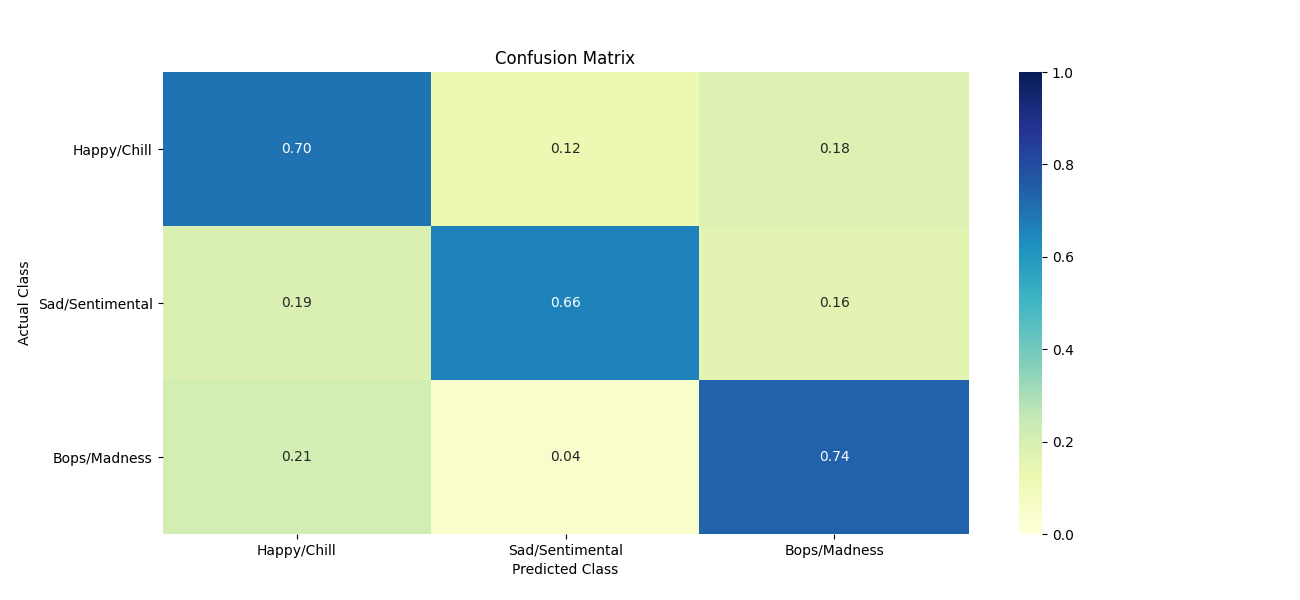
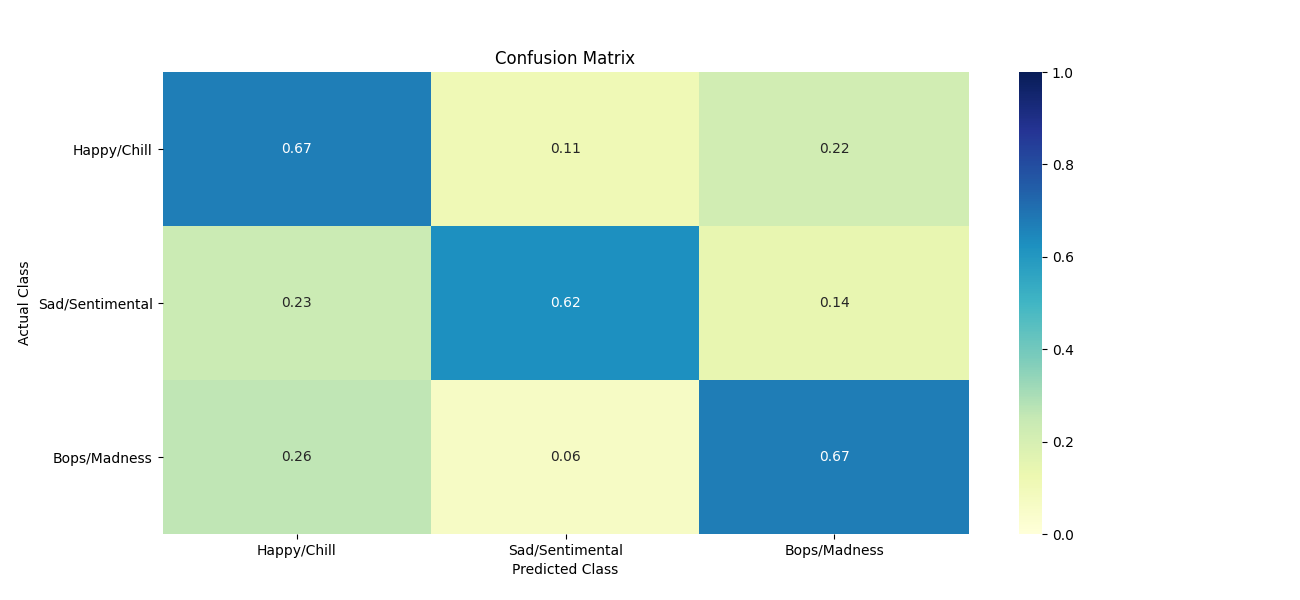
Working on tracking misclassifications

Changed region(s): [[0.5231, 0.63, 0.7692, 0.9], [0.2154, 0.24, 0.2462, 0.27]]

diff --git a/prediction/train_model.py b/prediction/train_model.py
@@ -47,11 +47,11 @@ class ModelType(Enum):
 class PlaylistClassifier():
     def __init__(self, model_type: ModelType):
         input_path = os.path.join("data", "playlist_features.json")
-        features = pd.read_json(input_path)
+        self.features = pd.read_json(input_path)
 
         self.model_type = model_type
-        self.X = features[FEATURES]
-        self.y = features["playlist"].map(CATEGORIES)
+        self.X = self.features[FEATURES]
+        self.y = self.features["playlist"].map(CATEGORIES)
 
         if self.model_type == ModelType.GradientBoosting:
             self.model_path = os.path.join("prediction", "models", "gbt")
@@ -86,7 +86,7 @@ class PlaylistClassifier():
         joblib.dump(clf, self.model_path)
 
     def stats(self):
-        clf = joblib.load(self.model_path)
+        clf = self._load_model()
         y_pred = cross_val_predict(clf, self.X, self.y, cv=10)
 
         confusion_matrix = metrics.confusion_matrix(self.y, y_pred, normalize='true')
@@ -105,6 +105,35 @@ class PlaylistClassifier():
         basename = os.path.basename(self.model_path)
         plt.savefig(os.path.join("prediction", f"confusion_{basename}.png"))
         plt.close()
+
+    def misclassified(self):
+        clf = self._load_model()
+        y_pred = cross_val_predict(clf, self.X, self.y, cv=10)
+        classes = self._get_label_names()
+
+        X = self.features.copy()
+        X["pred"] = [classes[label] for label in y_pred]
+        X["actual"] = [classes[label] for label in self.y]
+        X = X[X["pred"] != X["actual"]]
+        X = X[["name", "pred", "actual"]]
+        X = X.sort_values(by=["actual", "pred"])
+        
+        pd.set_option('display.max_rows', len(X))
+        pd.set_option('display.max_colwidth', -1)
+        print(X)
+
+    def _load_model(self):
+        return joblib.load(self.model_path)
+
+    def _get_label_names(self):
+        labels_map = {}
+        
+        for k, v in CATEGORIES.items():
+            labels_map.setdefault(v, []).append(k)
+
+        return ["/".join(classes)
+                for label, classes
+                in labels_map.items()]
 
     def _get_gbt_pipeline(self):
         pipe = Pipeline([
@@ -182,3 +211,5 @@ if __name__ == "__main__":
         classifier.train()
     elif command == "stats":
         classifier.stats()
+    elif command == "wrong":
+        classifier.misclassified()

diff --git a/data_collection/collect_playlists.py b/data_collection/collect_playlists.py
@@ -45,6 +45,10 @@ def get_playlist_tracks():
         # Attach label as well as some additional features
         features["playlist"] = track["playlist"]
         features["explicit"] = int(track["explicit"])
+
+        artist_names = [a["name"] for a in track["artists"]]
+        identifier = f"{track['name']} ({', '.join(artist_names)})"
+        features["name"] = identifier
         filtered.append((track, features))
 
     # Each entry is a tuple of track info and features.
